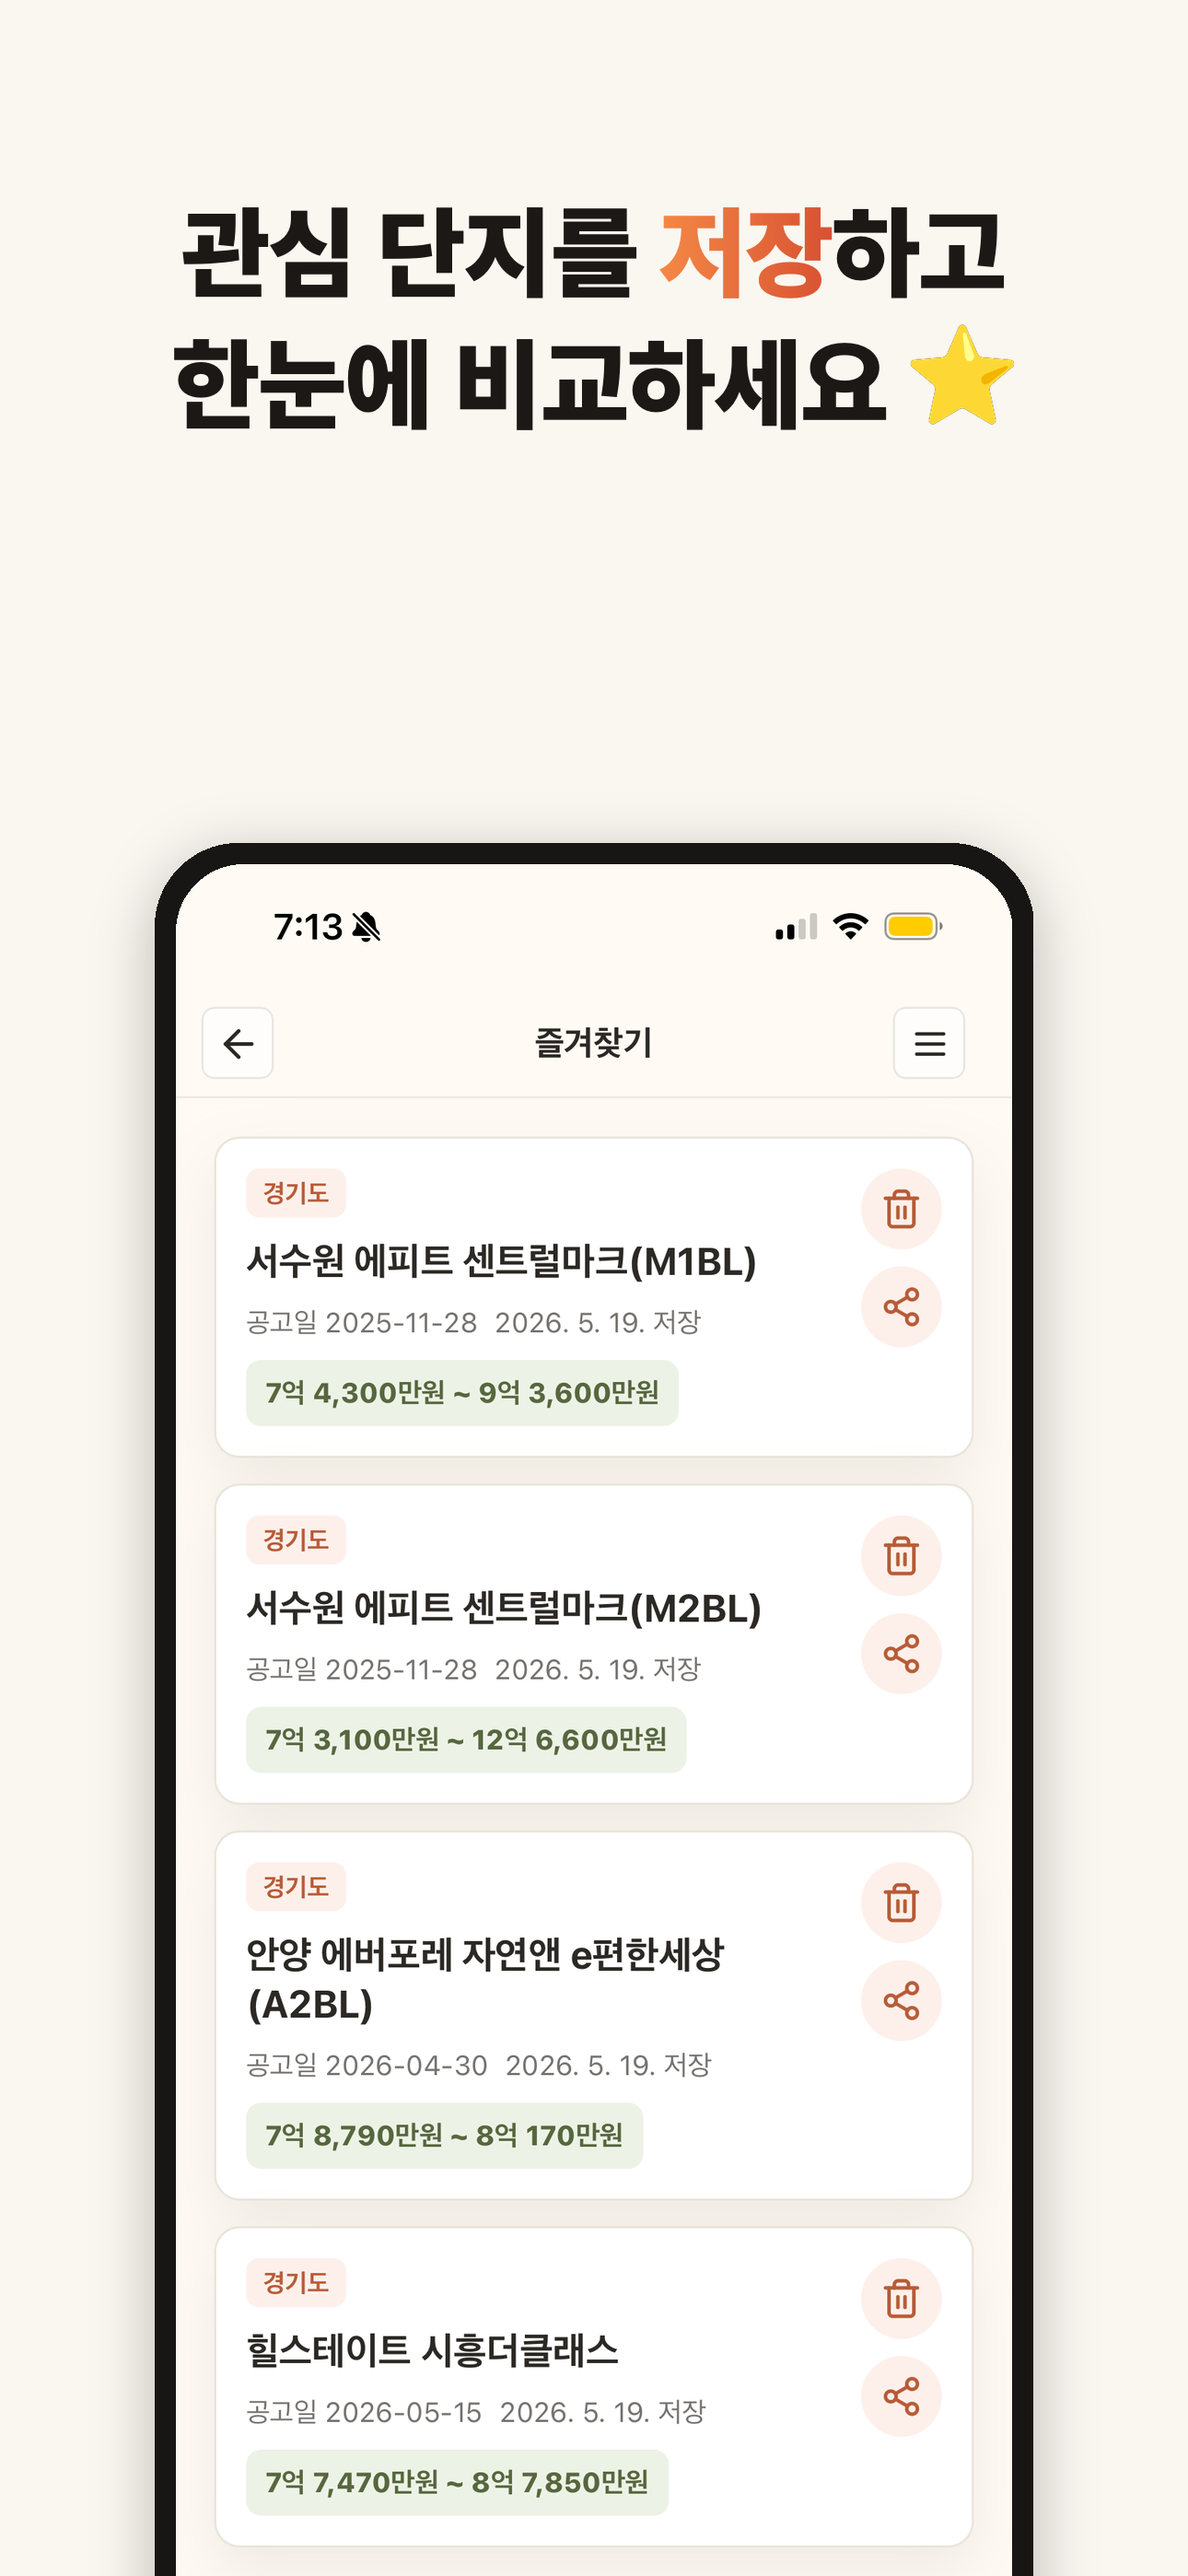
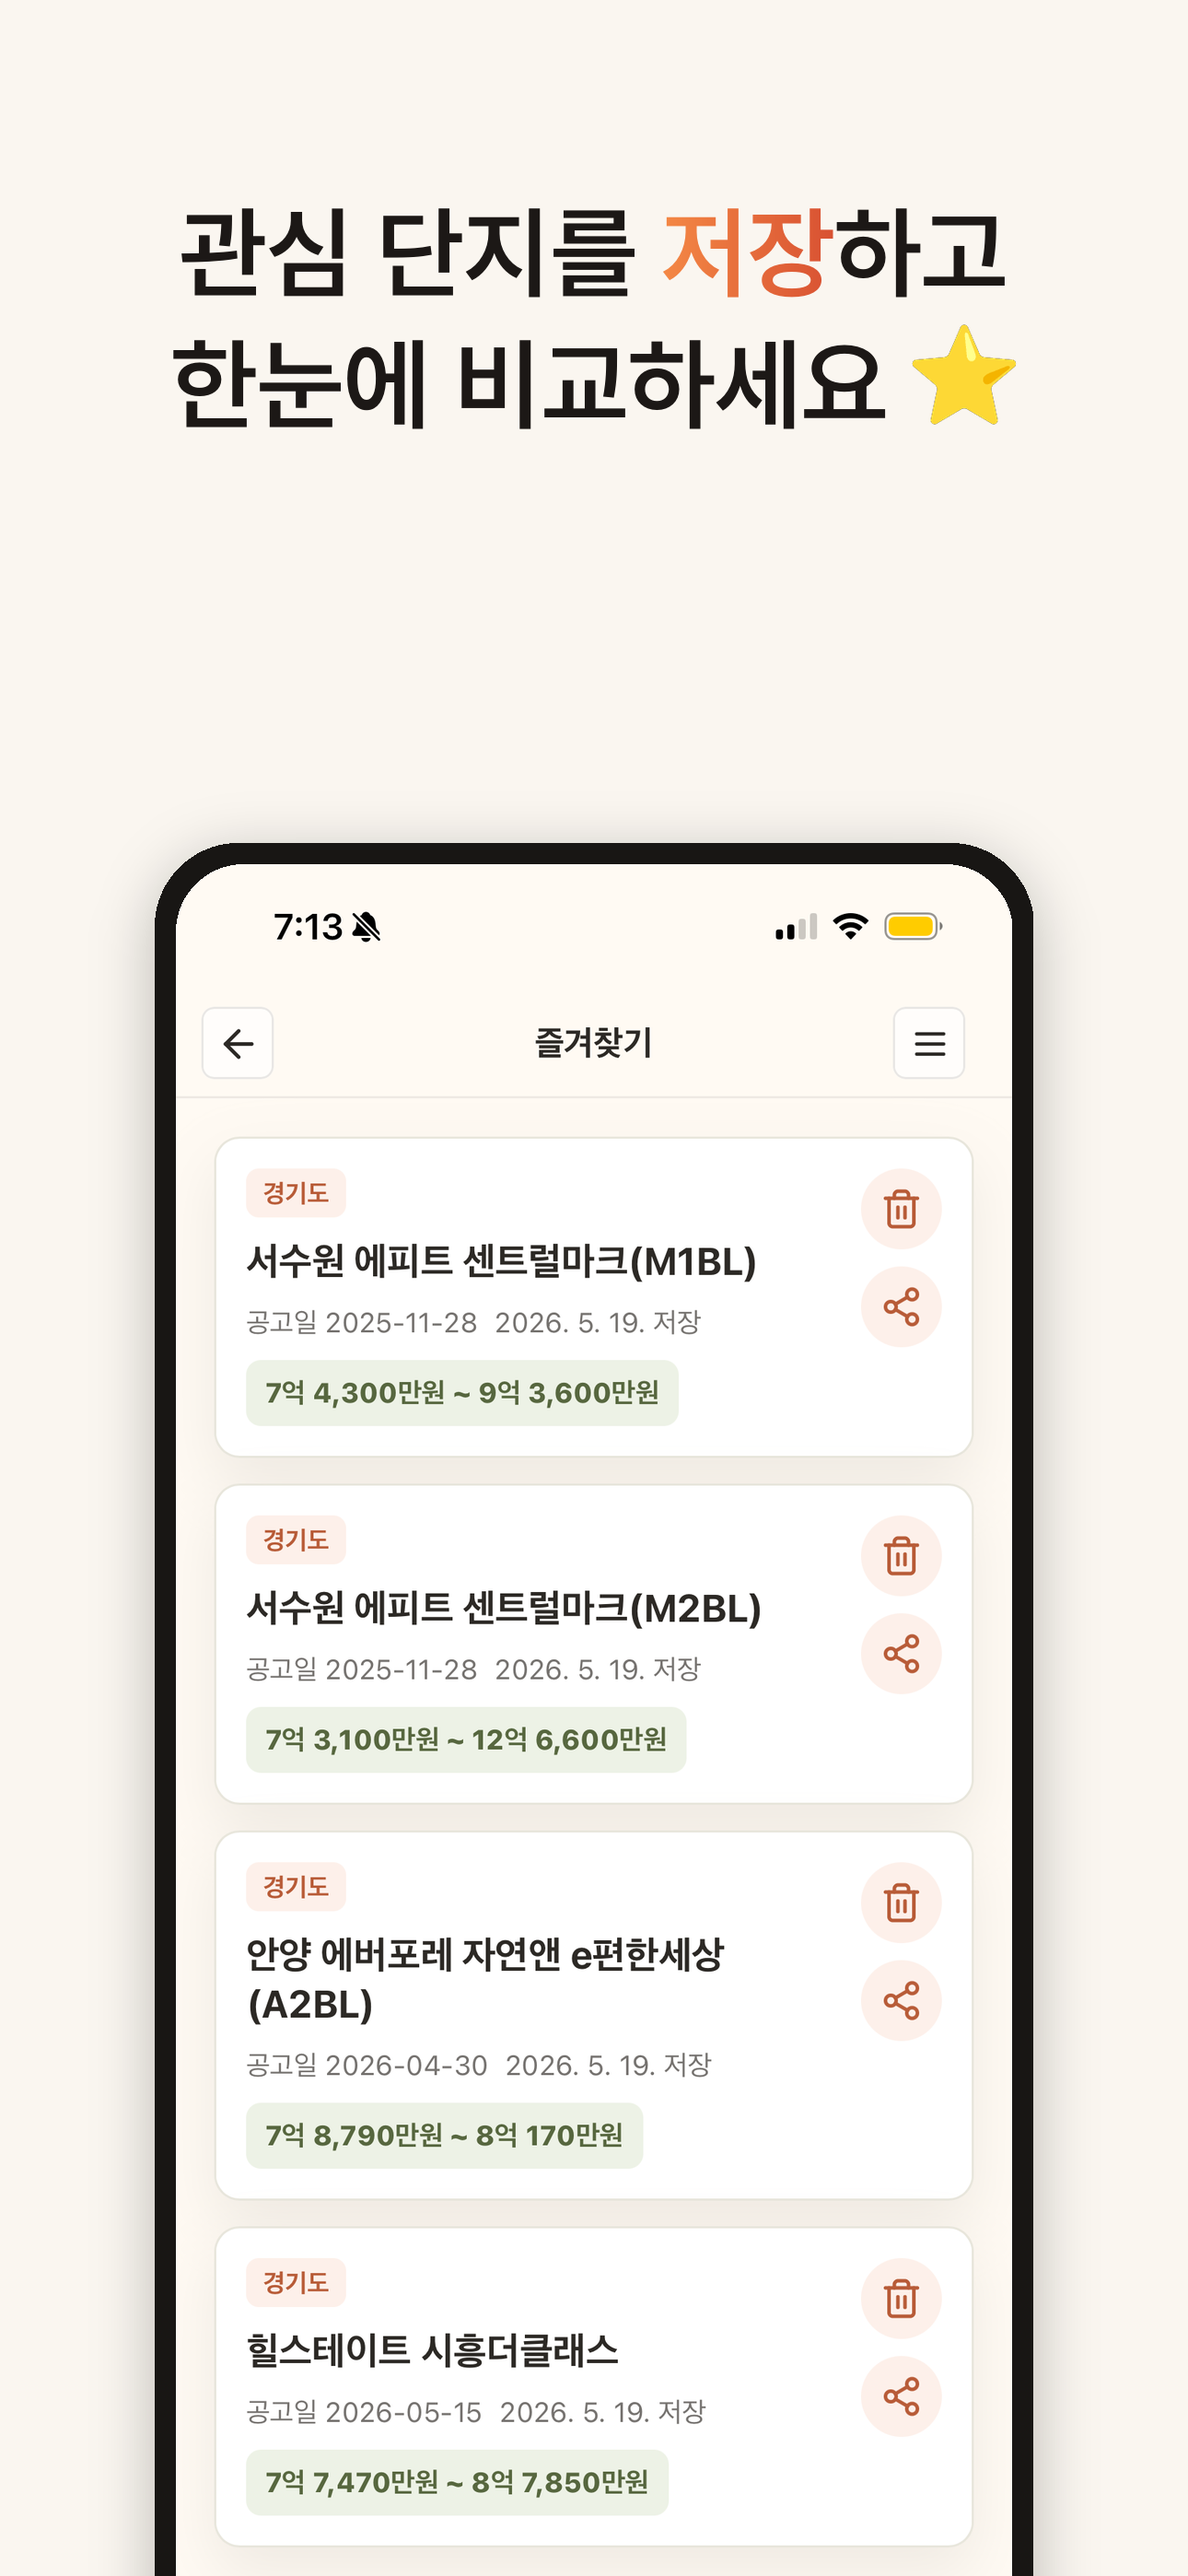
style(promo): 헤드라인 폰트 weight 900 → 600 (Pretendard SemiBold)
Black 굵기가 다소 무거워 SemiBold(600)으로 변경. NotebookLM 원본 톤에 더 가까운
가벼운 인상으로 마무리.

https://claude.ai/code/session_01GRiH8Ra4V3Zssk4NEqQ4Li

Changed region(s): [[0.155, 0.0622, 0.8372, 0.1867]]

diff --git a/scripts/build_promo_images.py b/scripts/build_promo_images.py
@@ -37,8 +37,12 @@ FONT_DIR = ROOT / "docs" / "promo" / "assets" / "fonts"
 PRETENDARD_BLACK = str(FONT_DIR / "Pretendard-Black.otf")
 PRETENDARD_EXTRABOLD = str(FONT_DIR / "Pretendard-ExtraBold.otf")
 PRETENDARD_BOLD = str(FONT_DIR / "Pretendard-Bold.otf")
+PRETENDARD_SEMIBOLD = str(FONT_DIR / "Pretendard-SemiBold.otf")
 PRETENDARD_MEDIUM = str(FONT_DIR / "Pretendard-Medium.otf")
 PRETENDARD_REGULAR = str(FONT_DIR / "Pretendard-Regular.otf")
+
+# Active headline weight — Pretendard SemiBold (600)
+HEADLINE_FACE = PRETENDARD_SEMIBOLD
 EMOJI_FONT = "/usr/share/fonts/truetype/noto/NotoColorEmoji.ttf"
 
 # ---------------------------------------------------------------------------
@@ -288,8 +292,8 @@ def new_canvas(spec: CanvasSpec) -> Image.Image:
 
 def build_promo_intro(spec: CanvasSpec, out_path: Path) -> None:
     canvas = new_canvas(spec)
-    headline_font = kfont(PRETENDARD_BLACK, spec.intro_headline_size)
-    tagline_font = kfont(PRETENDARD_BLACK, spec.intro_tagline_size)
+    headline_font = kfont(HEADLINE_FACE, spec.intro_headline_size)
+    tagline_font = kfont(HEADLINE_FACE, spec.intro_tagline_size)
     emoji = emoji_font(spec.intro_headline_size - 8)
 
     lines = [
@@ -322,7 +326,7 @@ def build_promo_with_phone(
     screenshot: Path,
 ) -> None:
     canvas = new_canvas(spec)
-    body = kfont(PRETENDARD_BLACK, spec.headline_size)
+    body = kfont(HEADLINE_FACE, spec.headline_size)
     emoji = emoji_font(spec.headline_size - 8)
     draw_headline(canvas, headline_lines, body, emoji,
                   top=spec.headline_top, line_height=spec.line_height)
